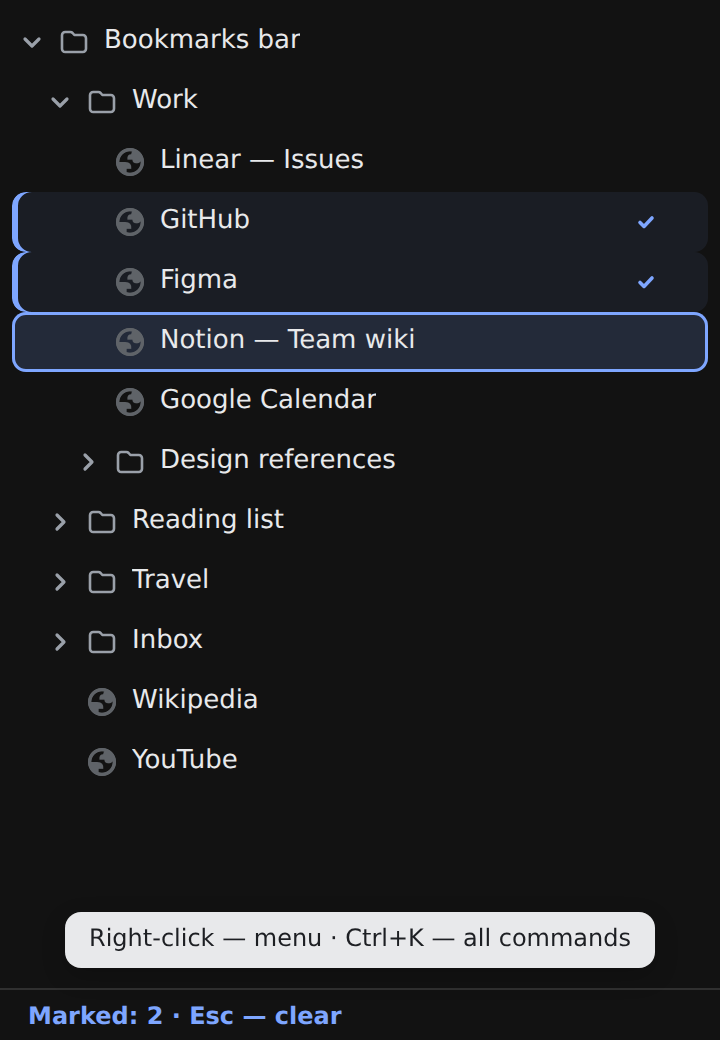
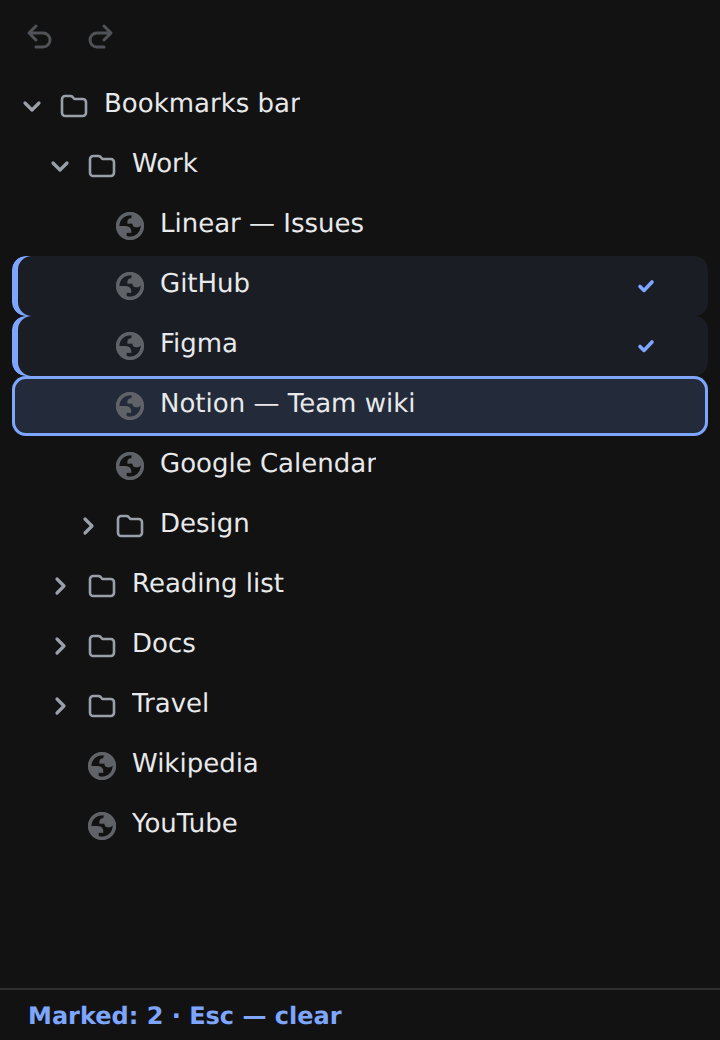
Store images and refreshed README screenshots (#14)
Real extension screenshots framed in HTML browser mockups: 5 store screenshots 1280x800, promo tile 440x280, marquee 1400x560; docs/panel-light|dark.png refreshed; docs/publishing.md maps files to store fields; reusable scripts in scripts/store-images/.

diff --git a/docs/publishing.md b/docs/publishing.md
@@ -29,6 +29,21 @@ Details: [Supplying images](https://developer.chrome.com/docs/webstore/images).
 | Marquee promo tile | 1400×560, optional (only for being featured) |
 | Name, summary (≤132 chars), description, category | from `_locales`; category e.g. Productivity |
 
+### Store images
+Files in `docs/store/` (generated: real screenshots of the extension framed in an HTML browser mockup; regenerate with `node scripts/store-images/capture.mjs . /tmp/shots && node scripts/store-images/compose.mjs /tmp/shots docs/store`; needs `npx playwright install chromium`). They are not part of the release zip.
+
+| File | Store field |
+| --- | --- |
+| `screenshot-1-panel.png` | Screenshots, 1st (panel beside a page, light) |
+| `screenshot-2-dark.png` | Screenshots, 2nd (dark theme) |
+| `screenshot-3-custom-theme.png` | Screenshots, 3rd (custom colors) |
+| `screenshot-4-theme-settings.png` | Screenshots, 4th (theme settings with live preview) |
+| `screenshot-5-hotkeys.png` | Screenshots, 5th (hotkey presets) |
+| `promo-small-440x280.png` | Small promo tile |
+| `promo-marquee-1400x560.png` | Marquee promo tile |
+
+`docs/panel-light.png` and `docs/panel-dark.png` are for the READMEs, not the store.
+
 ### Privacy practices
 Details: [Fill out the privacy fields](https://developer.chrome.com/docs/webstore/cws-dashboard-privacy).
 
